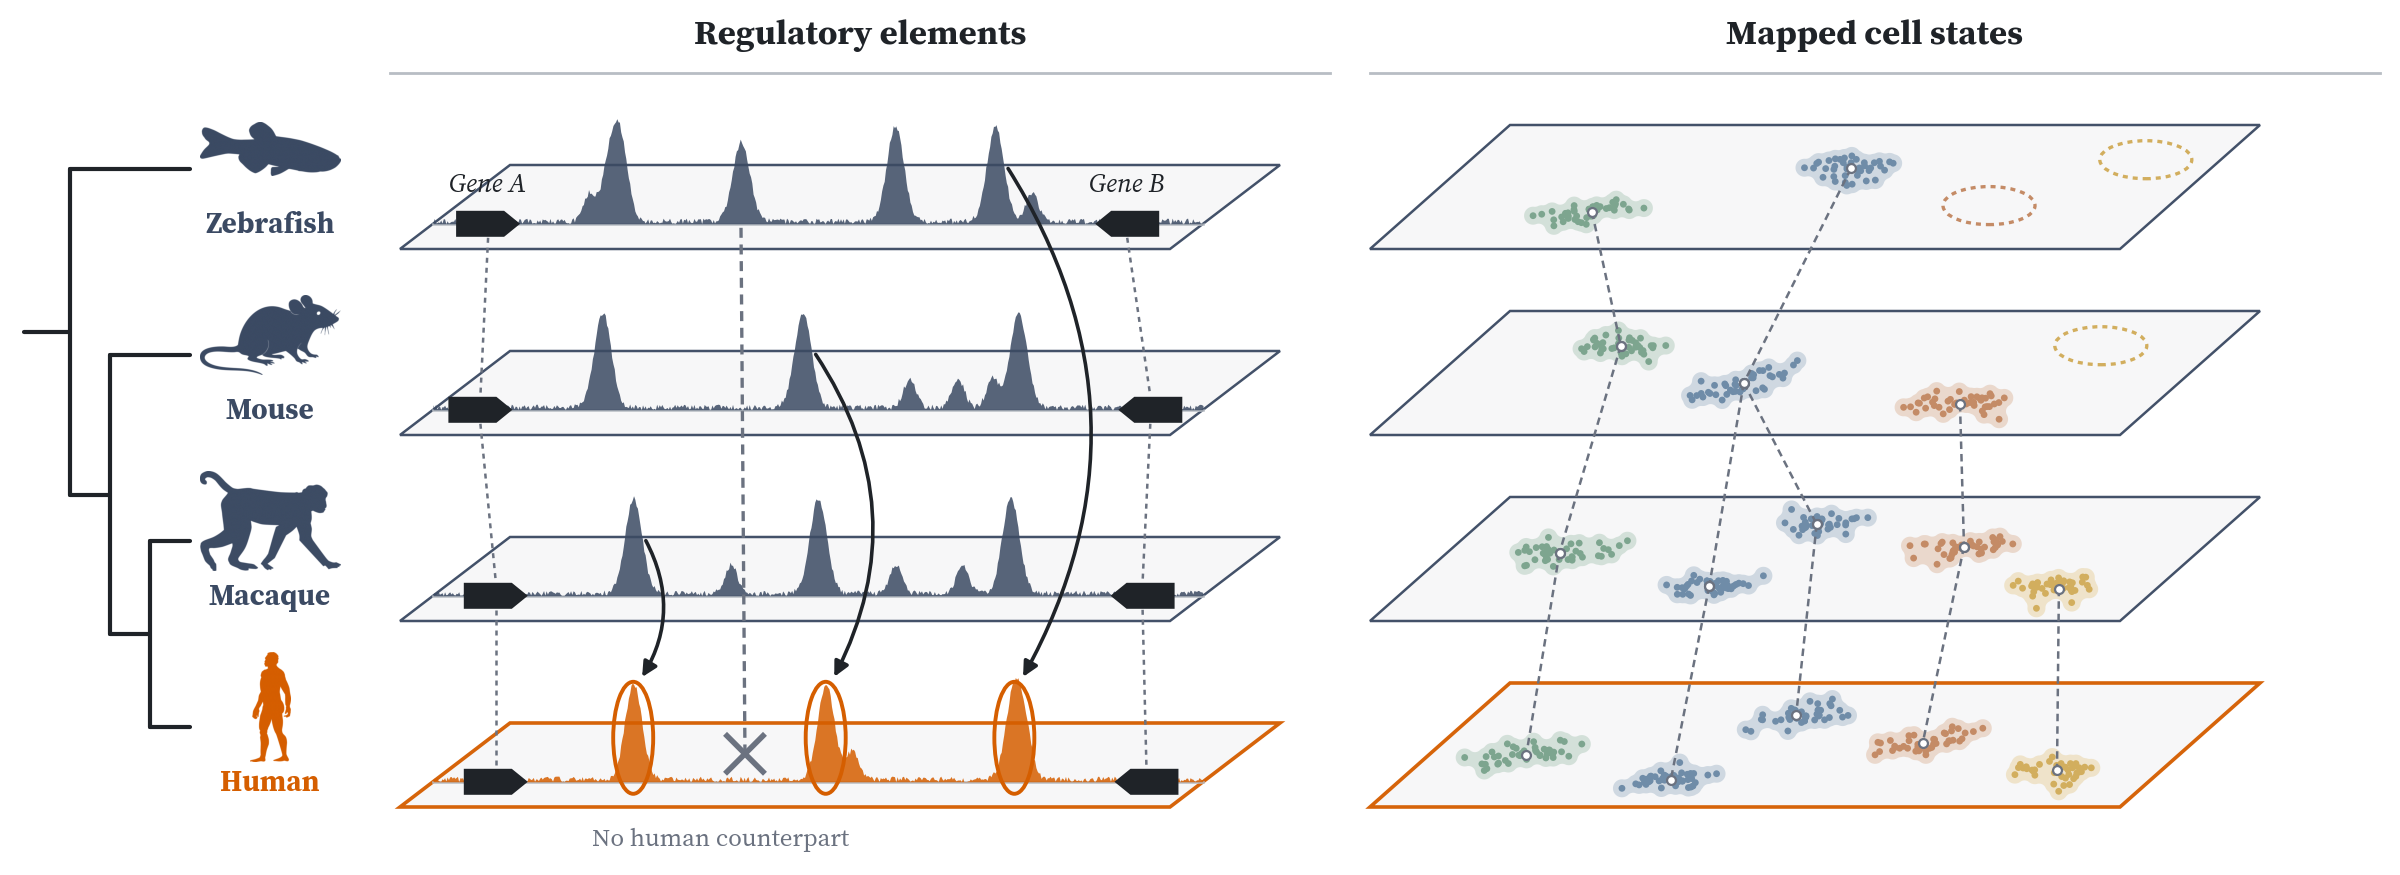
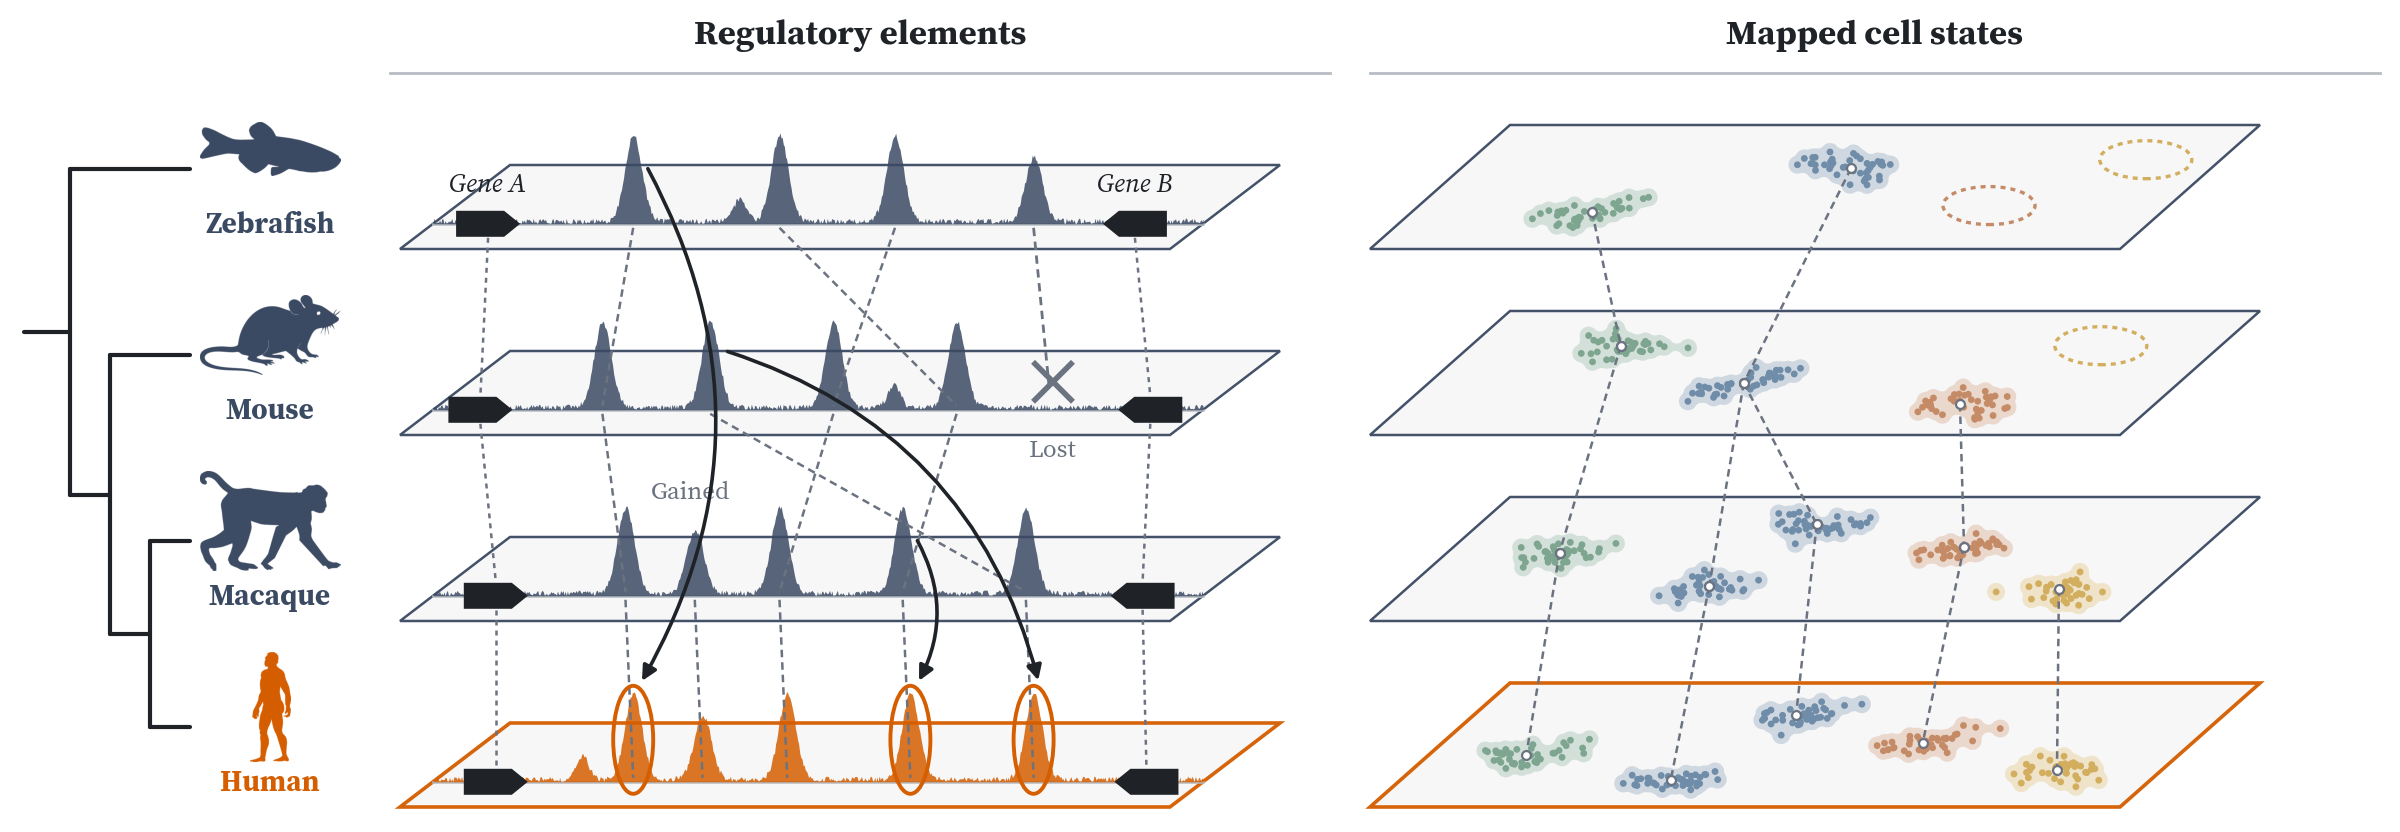
Regulatory elements: turnover with rearrangements, a lost and a gained element

diff --git a/bin/make_research_art.py b/bin/make_research_art.py
@@ -478,23 +478,31 @@ def draw_plane(P, k, key, z):
 
 
 # ---------------- left: a signal track on each plane ----------------
-ELEM = {"zebrafish": [0.24, 0.6, 0.73], "mouse": [0.22, 0.48, 0.76], "macaque": [0.26, 0.5, 0.75], "human": [0.26, 0.51, 0.755]}
+# Regulatory elements turn over between species. Each named element sits at its own position in each
+# species, and matching elements are linked plane to plane, so rearrangements show as crossing links:
+# E2 and E3 are swapped in zebrafish, and E4 has moved to the other side of E2 in mouse. Z is a
+# zebrafish element that is lost in mammals (no human counterpart, a cross), and P is a primate
+# element gained in macaque and human (no link reaches it from mouse).
+POS = {
+    "zebrafish": {"E1": 0.26, "E3": 0.45, "E2": 0.6, "Z": 0.78},
+    "mouse":     {"E1": 0.22, "E4": 0.36, "E2": 0.52, "E3": 0.68},
+    "macaque":   {"E1": 0.25, "P": 0.34, "E2": 0.45, "E3": 0.61, "E4": 0.77},
+    "human":     {"E1": 0.26, "P": 0.35, "E2": 0.46, "E3": 0.62, "E4": 0.78},
+}
 GA = {"zebrafish": 0.03, "mouse": 0.02, "macaque": 0.04, "human": 0.04}      # gene A, left flank
-GB = {"zebrafish": 0.86, "mouse": 0.89, "macaque": 0.88, "human": 0.885}     # gene B, reverse strand
+GB = {"zebrafish": 0.87, "mouse": 0.89, "macaque": 0.88, "human": 0.885}     # gene B, reverse strand
 TRACK_B = 0.3                                    # the track runs along the plane at this depth
-NOMAP = 0.4                                      # a zebrafish element that maps to nothing in human
-aa = np.linspace(0.0, 1.0, 600)
+PEAK = 0.45
+aa = np.linspace(0.0, 1.0, 700)
 for k, (lab, key) in enumerate(SPECIES):
     draw_plane(Lk, k, key, 2 + k * 0.01)
     sig = 0.03 * rs.random(aa.size)
-    for e in ELEM[key]:
-        sig += 0.5 * np.exp(-((aa - e) ** 2) / (2 * 0.011 ** 2))
-    for e in rs.uniform(0.12, 0.8, 3):                                   # species-specific peaks
-        if key == "human" and abs(e - NOMAP) < 0.07:
-            continue
-        sig += 0.15 * np.exp(-((aa - e) ** 2) / (2 * 0.008 ** 2))
-    if key == "zebrafish":                                              # an element with no human counterpart
-        sig += 0.42 * np.exp(-((aa - NOMAP) ** 2) / (2 * 0.011 ** 2))
+    for name, e in POS[key].items():
+        h = PEAK * (0.75 if name in ("Z", "P") else 1.0)
+        sig += h * np.exp(-((aa - e) ** 2) / (2 * 0.011 ** 2))
+    for e in rs.uniform(0.1, 0.84, 2):                                   # small species-specific peaks
+        if min(abs(e - v) for v in POS[key].values()) > 0.05:
+            sig += 0.12 * np.exp(-((aa - e) ** 2) / (2 * 0.008 ** 2))
     base = np.array([Lk(k, a, TRACK_B) for a in aa])
     ax.fill_between(base[:, 0], base[:, 1], base[:, 1] + 0.95 * sig, color=scol(key), alpha=0.85, lw=0, zorder=5)
     ax.plot(base[:, 0], base[:, 1], color=GREY, lw=0.9, zorder=4)
@@ -506,28 +514,35 @@ for k, (lab, key) in enumerate(SPECIES):
         ax.add_patch(Polygon([(gx + px, gy + py) for px, py in pts], closed=True, fc=INK, ec="none", zorder=6))
         if k == 0:
             text(ax, gx + 0.16, gy + 0.2, name, fontsize=9.5, color=INK, style="italic")
-# orthologous genes joined plane to plane
+# orthologous genes and matching elements joined plane to plane, drawn over the planes
 for k in range(3):
+    up, dn = SPECIES[k][1], SPECIES[k + 1][1]
     for g in (GA, GB):
-        p, q = Lk(k, g[SPECIES[k][1]], TRACK_B), Lk(k + 1, g[SPECIES[k + 1][1]], TRACK_B)
+        p, q = Lk(k, g[up], TRACK_B), Lk(k + 1, g[dn], TRACK_B)
         ax.plot([p[0] + 0.16, q[0] + 0.16], [p[1] - 0.07, q[1] + 0.07], color=MUTED, lw=0.9, ls=(0, (2, 2)), zorder=5.5)
-# each model organism proposes a different human element, from the element it has evidence for
-for k, j in zip(range(3), (2, 1, 0)):
-    key = SPECIES[k][1]
-    p = Lk(k, ELEM[key][j], TRACK_B)
-    q = Lk(3, ELEM["human"][j], TRACK_B)
-    ax.add_patch(FancyArrowPatch((p[0] + 0.05, p[1] + 0.3), (q[0] + 0.03, q[1] + 0.5),
-                                 connectionstyle="arc3,rad=-0.3", arrowstyle="-|>", mutation_scale=11,
-                                 color=INK, lw=1.3, zorder=7))
-    hx, hy = q
-    ax.add_patch(matplotlib.patches.Ellipse((hx, hy + 0.22), 0.2, 0.56, fc="none", ec=ACCENT, lw=1.4, zorder=7))
-# the no-map example: the zebrafish element has no counterpart in human, so its line ends in a cross
-p = Lk(0, NOMAP, TRACK_B)
-q = Lk(3, NOMAP, TRACK_B)
-ax.plot([p[0], q[0] + 0.02], [p[1] - 0.02, q[1] + 0.12], color=MUTED, lw=1.2, ls=(0, (3, 2)), zorder=6)
+    for name, e in POS[up].items():
+        if name in POS[dn]:
+            p, q = Lk(k, e, TRACK_B), Lk(k + 1, POS[dn][name], TRACK_B)
+            ax.plot([p[0], q[0]], [p[1] - 0.02, q[1] + 0.02], color=MUTED, lw=0.9, ls=(0, (3, 2)), zorder=5.6)
+# the lost element: Z has no counterpart past zebrafish, so its line ends in a cross on the mouse plane
+p, q = Lk(0, POS["zebrafish"]["Z"], TRACK_B), Lk(1, 0.8, TRACK_B)
+ax.plot([p[0], q[0]], [p[1] - 0.02, q[1] + 0.12], color=MUTED, lw=1.0, ls=(0, (3, 2)), zorder=6)
 ax.plot([q[0] - 0.07, q[0] + 0.11], [q[1] + 0.05, q[1] + 0.23], color=MUTED, lw=2.0, zorder=7)
 ax.plot([q[0] - 0.07, q[0] + 0.11], [q[1] + 0.23, q[1] + 0.05], color=MUTED, lw=2.0, zorder=7)
-text(ax, q[0] - 0.1, ROW[3] - 0.26, "No human counterpart", fontsize=9, color=MUTED)
+# each model organism proposes a different human element, from the element it has evidence for
+for k, name in zip(range(3), ("E1", "E4", "E3")):
+    key = SPECIES[k][1]
+    p = Lk(k, POS[key][name], TRACK_B)
+    q = Lk(3, POS["human"][name], TRACK_B)
+    ax.add_patch(FancyArrowPatch((p[0] + 0.06, p[1] + 0.3), (q[0] + 0.03, q[1] + 0.48),
+                                 connectionstyle="arc3,rad=-0.28", arrowstyle="-|>", mutation_scale=11,
+                                 color=INK, lw=1.3, zorder=7))
+    ax.add_patch(matplotlib.patches.Ellipse((q[0], q[1] + 0.21), 0.2, 0.54, fc="none", ec=ACCENT, lw=1.4, zorder=7))
+# the gained element: P appears in primates only
+pm = Lk(2, POS["macaque"]["P"], TRACK_B)
+text(ax, pm[0] - 0.02, pm[1] + 0.52, "Gained", fontsize=9, color=MUTED)
+qz = Lk(1, 0.8, TRACK_B)
+text(ax, qz[0] + 0.02, qz[1] - 0.2, "Lost", fontsize=9, color=MUTED)
 header(ax, 1.95, 6.65, H3 - 0.18, "Regulatory elements")
 
 # ---------------- right: a stack of embedding planes, one per species ----------------
